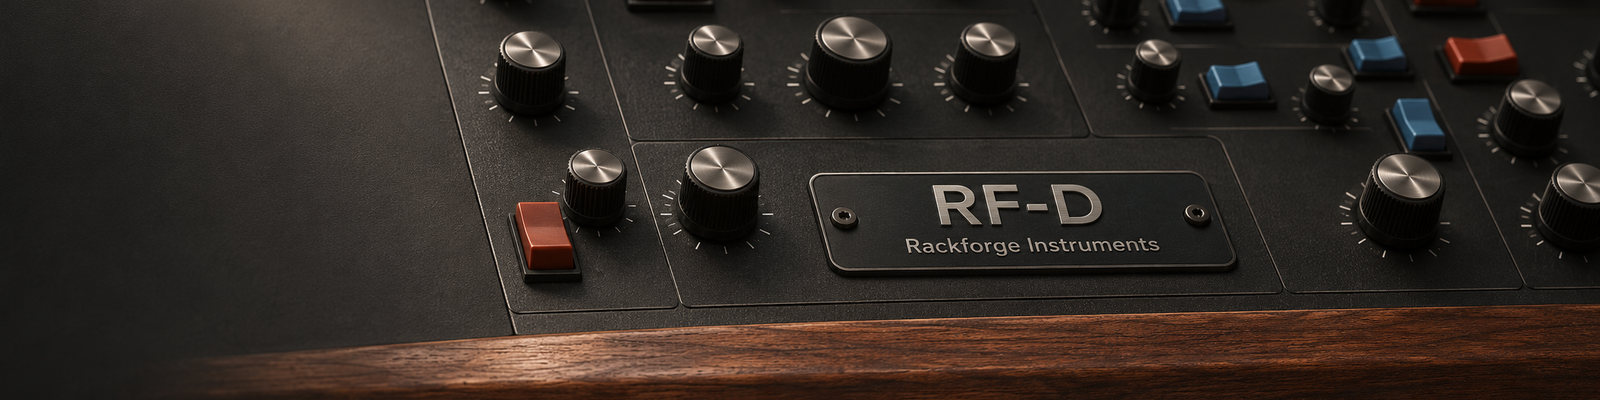
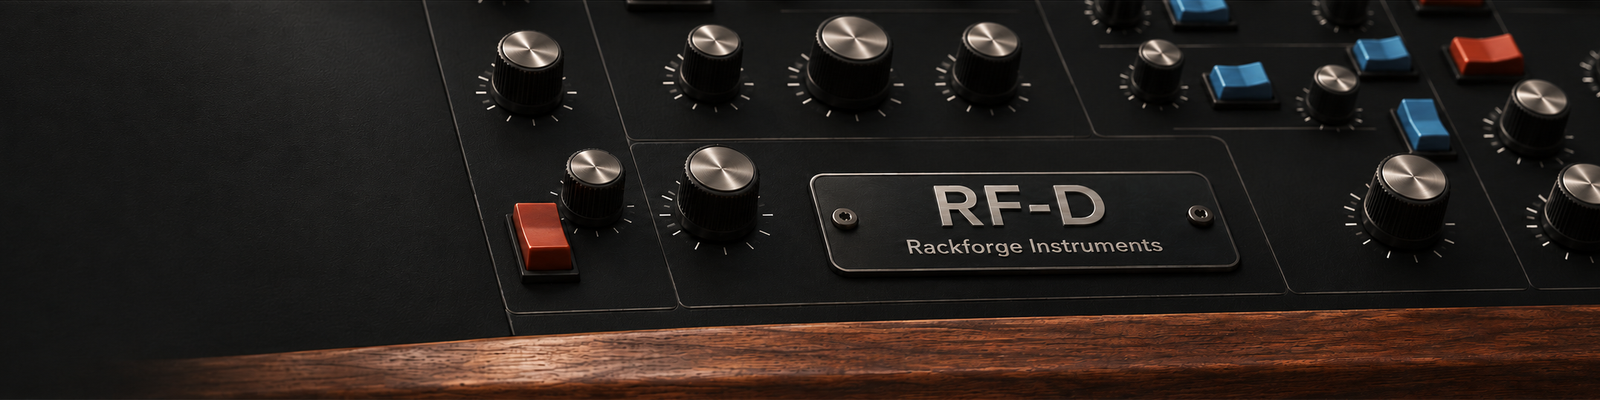
Match RF-D branding to the satin black faceplate

diff --git a/plugin/package/web/voice.css b/plugin/package/web/voice.css
@@ -7,7 +7,7 @@
   font: 15px/1.4 "Instrument Sans", "Segoe UI", sans-serif;
   --ink: #eee6cf;
   --muted: #bdb5a0;
-  --metal: #242521;
+  --metal: #131411;
   --line: #898171;
   --light-angle: 135deg;
   --panel-grain: url("panel-grain.svg");
@@ -33,7 +33,7 @@ body { margin: 0; padding: clamp(5px, 1.5vw, 24px); }
   position: relative;
   border: 1px solid #120d08;
   border-radius: 4px;
-  background: #22231f;
+  background: var(--metal);
   box-shadow: 0 0 0 1px #351c10, 1px 1px 0 1px #d4986059;
 }
 .faceplate::after {
@@ -53,7 +53,8 @@ body { margin: 0; padding: clamp(5px, 1.5vw, 24px); }
   min-height: 60px;
   padding: 8px 18px;
   border-radius: 3px 3px 0 0;
-  background: var(--panel-grain) 0 0 / 144px repeat, linear-gradient(var(--light-angle), #343430, #22231f 70%, #1b1c19);
+  background: var(--panel-grain) 0 0 / 144px repeat,
+    linear-gradient(var(--light-angle), #20211d, var(--metal) 70%, #10110e);
 }
 .nameplate {
   position: relative;
@@ -95,8 +96,8 @@ body { margin: 0; padding: clamp(5px, 1.5vw, 24px); }
   grid-template-columns: minmax(128px, .9fr) minmax(238px, 1.66fr) minmax(218px, 1.35fr) minmax(254px, 1.82fr) minmax(128px, .86fr);
   background:
     var(--panel-grain) 0 0 / 144px repeat,
-    radial-gradient(ellipse at 20% -18%, #41413b, transparent 76%),
-    linear-gradient(var(--light-angle), #2d2d29, var(--metal) 58%, #191a17);
+    radial-gradient(ellipse at 20% -18%, #292a25, transparent 72%),
+    linear-gradient(var(--light-angle), #1b1c18, var(--metal) 58%, #10110f);
   border-top: 1px solid #0c0c0a;
   box-shadow: inset 0 1px #e4dfbd2e;
 }
@@ -395,7 +396,8 @@ h3 {
   align-content: start;
   gap: 8px 6px;
   padding: 8px 7px;
-  background: var(--panel-grain) 0 0 / 144px repeat, linear-gradient(var(--light-angle), #2c2c28, #20211e);
+  background: var(--panel-grain) 0 0 / 144px repeat,
+    linear-gradient(var(--light-angle), #22231e, var(--metal));
   border: 1px solid #0e0e0c;
   border-block-start-color: #6c6559;
   border-end-start-radius: 3px;
